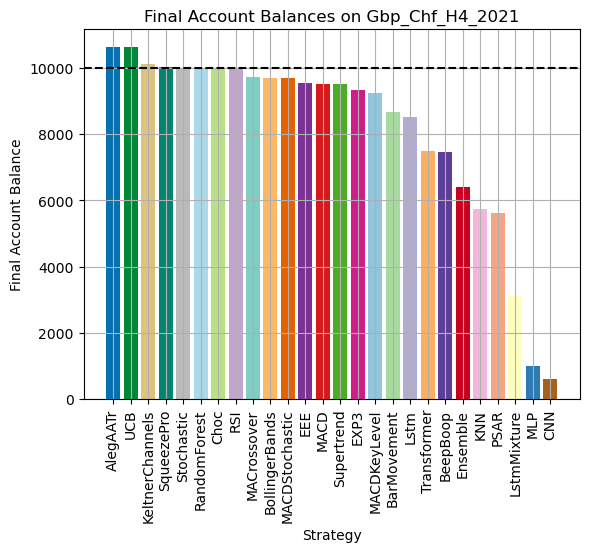
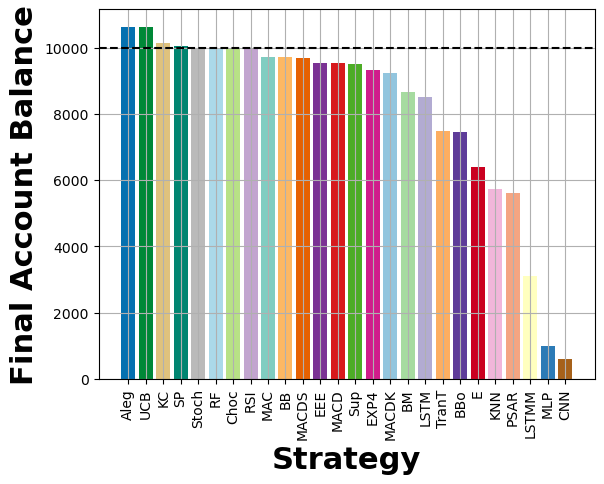
Update plots for paper

diff --git a/experiments/crunch_numbers.py b/experiments/crunch_numbers.py
@@ -5,6 +5,35 @@ import pandas as pd
 import pickle
 from utils.utils import CURRENCY_PAIRS, TIME_FRAMES
 
+names_conversion = {
+    'AlegAATr': 'Aleg',
+    'BarMovement': 'BM',
+    'BeepBoop': 'BBo',
+    'BollingerBands': 'BB',
+    'Choc': 'Choc',
+    'CNN': 'CNN',
+    'EEE': 'EEE',
+    'Ensemble': 'E',
+    'EXP3': 'EXP4',
+    'KeltnerChannels': 'KC',
+    'KNN': 'KNN',
+    'Lstm': 'LSTM',
+    'LstmMixture': 'LSTMM',
+    'MACrossover': 'MAC',
+    'MACD': 'MACD',
+    'MACDKeyLevel': 'MACDK',
+    'MACDStochastic': 'MACDS',
+    'MLP': 'MLP',
+    'PSAR': 'PSAR',
+    'RandomForest': 'RF',
+    'RSI': 'RSI',
+    'SqueezePro': 'SP',
+    'Stochastic': 'Stoch',
+    'Supertrend': 'Sup',
+    'Transformer': 'TranT',
+    'UCB': 'UCB'
+}
+
 
 def crunch_numbers() -> None:
     def total_profit() -> None:
@@ -121,7 +150,7 @@ def crunch_numbers() -> None:
 
             print()
 
-        all_profs, names = [], []
+        all_profs, names, converted_names = [], [], []
 
         for strategy, profits in sorted(all_profits.items(), key=lambda item: sum(item[1]) / len(item[1]),
                                         reverse=True):
@@ -132,38 +161,39 @@ def crunch_numbers() -> None:
 
             all_profs.append(profits_array)
             names.append(strategy)
+            converted_names.append(names_conversion[strategy])
 
         avgs = [arry.mean() for arry in all_profs]
         bar_colors = [names_to_colors[name] for name in names]
+        plt.figure(figsize=(10, 3))
         plt.grid()
-        plt.bar(names, avgs, color=bar_colors)
-        plt.xlabel('Strategy')
+        plt.bar(converted_names, avgs, color=bar_colors)
+        plt.xlabel('Strategy', fontsize=22, fontweight='bold')
         plt.xticks(rotation=90)
-        plt.ylabel('Amount')
-        plt.title(f'Average Profit Amounts (Phase 1)')
+        plt.ylabel('Profit', fontsize=22, fontweight='bold')
         plt.savefig(f'../experiments/plots/report/avg_profit_amounts', bbox_inches='tight')
         plt.clf()
 
         standard_errors = [arry.std() / len(arry) ** 0.5 for arry in all_profs]
         bar_colors = [names_to_colors[name] for name in names]
+        plt.figure(figsize=(10, 3))
         plt.grid()
-        plt.bar(names, avgs, yerr=standard_errors, color=bar_colors)
-        plt.xlabel('Strategy')
+        plt.bar(converted_names, avgs, yerr=standard_errors, color=bar_colors)
+        plt.xlabel('Strategy', fontsize=22, fontweight='bold')
         plt.xticks(rotation=90)
-        plt.ylabel('Amount')
-        plt.title(f'Average Profit Amounts (Phase 1)')
+        plt.ylabel('Profit', fontsize=22, fontweight='bold')
         plt.savefig(f'../experiments/plots/report/avg_profit_amounts_with_se', bbox_inches='tight')
         plt.clf()
 
         box_colors = [names_to_colors[name] for name in names]
+        plt.figure(figsize=(10, 3))
         plt.grid()
         bp = plt.boxplot(all_profs, patch_artist=True)
         for i in range(len(names)):
             bp['boxes'][i].set_facecolor(box_colors[i])
-        plt.xlabel('Strategy')
-        plt.xticks(list(range(1, len(names) + 1)), names, rotation=90)
-        plt.ylabel('Amount')
-        plt.title(f'Profit Amounts (Phase 1)')
+        plt.xlabel('Strategy', fontsize=22, fontweight='bold')
+        plt.xticks(list(range(1, len(names) + 1)), converted_names, rotation=90)
+        plt.ylabel('Profit', fontsize=22, fontweight='bold')
         plt.savefig(f'../experiments/plots/report/profit_amounts', bbox_inches='tight')
         plt.clf()
 

diff --git a/experiments/plots.py b/experiments/plots.py
@@ -1,3 +1,4 @@
+from experiments.crunch_numbers import names_conversion
 import matplotlib.pyplot as plt
 import os
 import numpy as np
@@ -84,24 +85,38 @@ def create_plots() -> None:
                     # Sort by best performance
                     final_balances_with_names.sort(key=lambda x: x[1], reverse=True)
                     strategy_names = [tup[0] for tup in final_balances_with_names]
+                    converted_names = [names_conversion[name] for name in strategy_names]
                     final_balances = [tup[1] for tup in final_balances_with_names]
 
                     # Bar graph containing final balances for each strategy
                     names_to_colors = pickle.load(open('./plots/color_mappings.pickle', 'rb'))
                     bar_colors = [names_to_colors[name] for name in strategy_names]
                     plt.grid()
-                    plt.bar(strategy_names, final_balances, color=bar_colors)
+                    plt.bar(converted_names, final_balances, color=bar_colors)
                     plt.axhline(y=10000, color='black', linestyle='--')
-                    plt.xlabel('Strategy')
+                    plt.xlabel('Strategy', fontsize=22, fontweight='bold')
                     plt.xticks(rotation=90)
-                    plt.ylabel('Final Account Balance')
-                    plt.title(f'Final Account Balances on {pair_time_year_str}')
+                    plt.ylabel('Final Account Balance', fontsize=22, fontweight='bold')
+                    # plt.title(f'Final Account Balances on {pair_time_year_str}')
                     plt.savefig(f'../experiments/plots/{pair_time_year_str}_final_balances', bbox_inches='tight')
                     plt.clf()
 
                     # Export the final balances as a csv
                     df = pd.DataFrame([final_balances], columns=strategy_names)
                     df.to_csv(f'../experiments/results/final_balances_csv/{pair_time_year_str}_final_balances.csv')
+
+                    # Create special "sneak preview" plot
+                    if pair_time_year_str == 'Usd_Jpy_M30_2021':
+                        plt.figure(figsize=(10, 3))
+                        plt.grid()
+                        labels = ['Price Forecaster\nKNN', 'Trained Rule\nStochastic', 'Bandit\nEEE',
+                                  'Price Forecaster\nLSTM-Mixture', 'Trained Rule\nKeltner Channels']
+                        plt.bar(labels, final_balances[:5], color=bar_colors[:5])
+                        plt.axhline(y=10000, color='black', linestyle='--')
+                        plt.xlabel('Strategy', fontsize=14, fontweight='bold')
+                        plt.ylabel('Final Account Balance', fontsize=14, fontweight='bold')
+                        plt.savefig(f'../experiments/plots/report/sneak_preview', bbox_inches='tight')
+                        plt.clf()
 
     # Create plots of account value over time
     # _create_account_value_plots()
